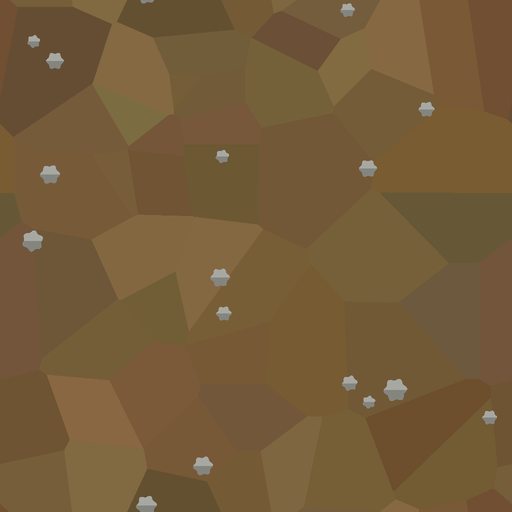
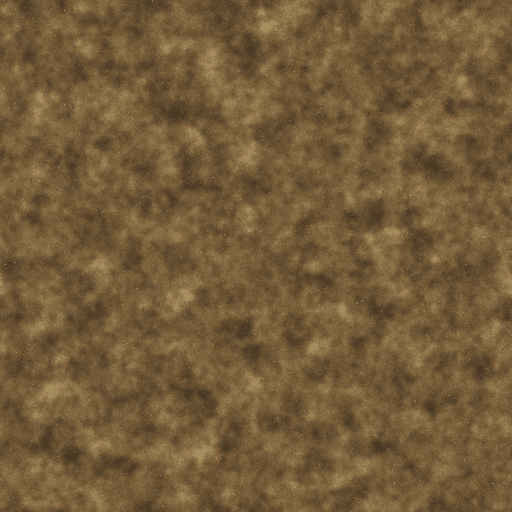
ground.dirt remade soft (Jeff, 2026-10-19: "dirt having polys is not what i meant by elevation .. i meant hills and valleys and ridges"; the coordinator's pick (a), beside terrain's 524): art-gen's p1 flat Voronoi cells read as polys at the game camera; now mottled packed earth with no hard edges, b

diff --git a/THIRD_PARTY.md b/THIRD_PARTY.md
@@ -16,7 +16,7 @@ also writes `docs/art_status.md`; `art_kit_test` fails while either is out of da
 |--------|---------|-------|---------------------|
 | [Castle Kit 2.0, Kenney](https://kenney.nl/assets/castle-kit) | CC0 1.0 (`art/kenney-castle/License.txt`) | `art/kenney-castle/Models/GLB format/` | none now |
 
-Slots whose own art came from someone else: material.wall.castle (art-gen, own), floor.castle (art-gen, own), wall.castle.straight (art-gen, fitted by art-kit, own), wall.castle.straight_low (art-gen, fitted by art-kit, own), wall.castle.straight_tall (art-gen, fitted by art-kit, own), wall.castle.end (art-gen, fitted by art-kit, own), wall.castle.end_low (art-gen, fitted by art-kit, own), wall.castle.end_tall (art-gen, fitted by art-kit, own), wall.castle.corner (art-gen, fitted by art-kit, own), wall.castle.corner_low (art-gen, fitted by art-kit, own), wall.castle.corner_tall (art-gen, fitted by art-kit, own), wall.castle.t (art-gen, fitted by art-kit, own), wall.castle.t_low (art-gen, fitted by art-kit, own), wall.castle.t_tall (art-gen, fitted by art-kit, own), wall.castle.cross (art-gen, fitted by art-kit, own), wall.castle.cross_low (art-gen, fitted by art-kit, own), wall.castle.cross_tall (art-gen, fitted by art-kit, own), wall.castle.post (art-gen, fitted by art-kit, own), wall.castle.post_low (art-gen, fitted by art-kit, own), wall.castle.post_tall (art-gen, fitted by art-kit, own), wall.castle.window (art-gen, fitted by art-kit, own), wall.castle.straight_ruined (art-gen, fitted by art-kit, own), wall.castle.end_ruined (art-gen, fitted by art-kit, own), wall.castle.rubble (art-gen, fitted by art-kit, own), material.wall.wood (art-gen, own), material.roof.shingle (art-gen, procedural (no model), own), material.roof.thatch (art-kit, procedural, own), roof.thatch.ridge (art-kit, by hand, own), roof.thatch.eave (art-kit, by hand, own), roof.shingle.ridge (art-gen, fitted by art-kit, own), roof.shingle.end (art-gen, fitted by art-kit, own), roof.shingle.broken (art-kit, own), chimney.stone (art-kit, by hand, own), porch.timber (art-kit, by hand, own), porch.timber_wide (art-kit, by hand, own), frame.cruck (art-kit, by hand, own), floor.wood (art-gen, own), wall.wood.straight (art-gen, fitted by art-kit, own), wall.wood.end (art-gen, fitted by art-kit, own), wall.wood.corner (art-gen, fitted by art-kit, own), wall.wood.t (art-gen, fitted by art-kit, own), wall.wood.cross (art-gen, fitted by art-kit, own), wall.wood.post (art-gen, fitted by art-kit, own), wall.wood.window (art-gen, fitted by art-kit, own), wall.wood.straight_ruined (art-gen, fitted by art-kit, own), wall.wood.rubble (art-gen, fitted by art-kit, own), material.wall.stone (art-gen, own), floor.stone (art-gen, own), wall.stone.straight (art-gen, fitted by art-kit, own), wall.stone.end (art-gen, fitted by art-kit, own), wall.stone.corner (art-gen, fitted by art-kit, own), wall.stone.t (art-gen, fitted by art-kit, own), wall.stone.cross (art-gen, fitted by art-kit, own), wall.stone.post (art-gen, fitted by art-kit, own), wall.stone.straight_tall (art-gen, fitted by art-kit, own), wall.stone.end_tall (art-gen, fitted by art-kit, own), wall.stone.corner_tall (art-gen, fitted by art-kit, own), wall.stone.t_tall (art-gen, fitted by art-kit, own), wall.stone.cross_tall (art-gen, fitted by art-kit, own), wall.stone.post_tall (art-gen, fitted by art-kit, own), wall.stone.straight_low (art-gen, fitted by art-kit, own), wall.stone.end_low (art-gen, fitted by art-kit, own), wall.stone.post_low (art-gen, fitted by art-kit, own), wall.stone.window (art-gen, fitted by art-kit, own), wall.stone.straight_ruined (art-gen, fitted by art-kit, own), wall.stone.end_ruined (art-gen, fitted by art-kit, own), wall.stone.rubble (art-gen, fitted by art-kit, own), material.wall.cave (art-gen, own), floor.cave (art-gen, own), wall.cave.end (art-gen, fitted by art-kit, own), wall.cave.pillar (art-gen, fitted by art-kit, own), wall.cave.rubble (art-gen, fitted by art-kit, own), wall.castle.tower (art-gen, fitted by art-kit, own), wall.stone.tower (art-gen, fitted by art-kit, own), wall.wood.tower (art-gen, fitted by art-kit, own), door.single (art-kit, own), tree.broadleaf (art-gen, fitted by art-kit, own), tree.small (art-gen, fitted by art-kit (variant 1); art-kit by hand (2, 3), own), tree.pine (art-gen, fitted by art-kit, own), tree.pine_stand (art-kit, from tree.pine's art-gen variants, own), rock.small (art-gen, fitted by art-kit, own), scatter.tuft (art-gen, fitted by art-kit, own), scatter.flower (art-kit, by hand to art-gen's c4, own), scatter.stone (art-gen, fitted by art-kit, own), scatter.root (art-gen, fitted by art-kit, own), prop.crate (art-kit, by hand, own), prop.chest (art-kit, by hand, own), rock.boulder (art-gen, fitted by art-kit, own), prop.cart (art-gen, fitted by art-kit, own), building.hut (art-kit, by hand, own), building.house (art-gen, fitted by art-kit, own), building.shed (art-gen, fitted by art-kit, own), building.well (art-gen, fitted by art-kit, own), door.double (art-gen, fitted by art-kit, own), door.gate (art-gen, fitted by art-kit, own), door.portcullis (art-gen, fitted by art-kit, own), door.trapdoor (art-gen, fitted by art-kit, own), tree.dead (art-gen, fitted by art-kit, own), tree.stump (art-gen, cleaned up by art-kit, own), tree.log (art-gen, fitted by art-kit, own), plant.bush (art-gen, fitted by art-kit, own), plant.fern (art-gen, fitted by art-kit, own), scatter.reeds (art-kit, by hand to art-gen's c1, own), rock.large (art-gen, fitted by art-kit, own), prop.barrel (art-kit, by hand, own), prop.torch (art-gen, fitted by art-kit, own), prop.torch_post (art-kit, by hand, own), prop.lantern (art-gen, fitted by art-kit, own), prop.campfire (art-gen, fitted by art-kit, own), prop.fence (art-gen, fitted by art-kit, own), prop.fence_post (art-gen, fitted by art-kit, own), prop.stairs (art-gen, fitted by art-kit, own), prop.table (art-kit, by hand, own), prop.bench (art-gen, fitted by art-kit, own), prop.bed (art-gen, fitted by art-kit, own), prop.sack (art-gen, fitted by art-kit, own), prop.grave (art-gen, fitted by art-kit, own), prop.anvil (art-gen, fitted by art-kit, own), prop.forge (art-gen, fitted by art-kit, own), prop.bookshelf (art-gen, fitted by art-kit, own), prop.market_stall (art-gen, fitted by art-kit, own), prop.signpost (art-gen, fitted by art-kit, own), prop.banner (art-gen, fitted by art-kit, own), prop.tent (art-gen, fitted by art-kit, own), prop.palisade (art-gen, fitted by art-kit, own), prop.cage (art-gen, fitted by art-kit, own), prop.bridge (art-gen, fitted by art-kit, own), bridge.wood.deck (art-kit, by hand, own), bridge.wood.rail (art-kit, by hand, own), bridge.wood.end (art-kit, by hand, own), prop.ladder (art-gen, fitted by art-kit, own), creature.deer (Quaternius (mesh, rig and clips), pc-character (fitted to the slot, recoloured onto the palette), CC0 1.0 (Quaternius, Ultimate Animated Animal Pack: Deer, docs/licenses/quaternius-cc0_2026-10-15.txt)), creature.stag (Quaternius (mesh, rig and clips), pc-character (fitted to the slot, recoloured onto the palette), CC0 1.0 (Quaternius, Ultimate Animated Animal Pack: Stag, docs/licenses/quaternius-cc0_2026-10-15.txt)), creature.wolf (Quaternius (mesh, rig and clips), pc-character (fitted to the slot, recoloured onto the palette), CC0 1.0 (Quaternius, Ultimate Animated Animal Pack: Wolf, docs/licenses/quaternius-cc0_2026-10-15.txt)), creature.boar (art-gen (mesh), pc-character (rig fit); rig and clips Quaternius, own (mesh); CC0 1.0 (the Quaternius Pig's rig and clips, docs/licenses/quaternius-cc0_2026-10-15.txt)), creature.cow (Quaternius (mesh, rig and clips), pc-character (fitted to the slot, recoloured onto the palette), CC0 1.0 (Quaternius, Ultimate Animated Animal Pack: Cow; variant 2 Bull, docs/licenses/quaternius-cc0_2026-10-15.txt)), creature.pig (art-gen (the boar's mesh), pc-character (rig fit; made a farm pig by tools/pig_from_boar.py), own (mesh); CC0 1.0 (the Quaternius Pig's rig and clips, docs/licenses/quaternius-cc0_2026-10-15.txt)), creature.horse (Quaternius (mesh, rig and clips), pc-character (fitted to the slot, recoloured onto the palette), CC0 1.0 (Quaternius, Ultimate Animated Animal Pack: Horse; variant 2 Horse_White, docs/licenses/quaternius-cc0_2026-10-15.txt)), creature.donkey (Quaternius (mesh, rig and clips), pc-character (fitted to the slot, recoloured onto the palette), CC0 1.0 (Quaternius, Ultimate Animated Animal Pack: Donkey, docs/licenses/quaternius-cc0_2026-10-15.txt)), creature.dog (Quaternius (mesh, rig and clips), pc-character (fitted to the slot, recoloured onto the palette), CC0 1.0 (Quaternius, Ultimate Animated Animal Pack: Husky; variant 2 ShibaInu, docs/licenses/quaternius-cc0_2026-10-15.txt)), creature.rabbit (art-gen (mesh), pc-character (rig and clips), own), creature.orc (pc-character (tools/body_gen.py, body_build.py --parts), own), creature.kobold (pc-character (tools/body_gen.py, body_build.py --parts), own), ground.dirt (art-gen, procedural, own), ground.sand (art-gen, procedural, own), fx.arrow (art-kit, own), ground.needles (art-gen, procedural (no model), own), material.rock (art-gen, own), item.antlers (art-gen, fitted by art-kit, own), item.arrows (art-gen, procedural (no model); fitted by art-kit, own), item.arrows_barbed (art-gen, procedural (no model); fitted by art-kit, own), item.arrows_flame (art-gen, procedural (no model); fitted by art-kit, own), item.axe_head (art-gen, fitted by art-kit, own), item.bandaging_kit (art-gen, fitted by art-kit, own), item.bow (art-kit, by hand from art-gen's c2, own), item.cloth_bolt (art-gen, fitted by art-kit, own), item.coin_purse (art-gen, fitted by art-kit, own), item.dagger (art-gen, fitted by art-kit, own), item.food_sack (art-gen, fitted by art-kit, own), item.giant_axe (art-gen, fitted by art-kit, own), item.hammer (art-gen, fitted by art-kit, own), item.herbs (art-kit, by hand, own), item.hide (art-gen, fitted by art-kit, own), item.knife (art-gen, fitted by art-kit, own), item.meat (art-gen, fitted by art-kit, own), item.nails (art-gen, fitted by art-kit, own), item.ore_sack (art-gen, fitted by art-kit, own), item.ration (art-gen, fitted by art-kit, own), item.remedy (art-kit, by hand, own), item.shield (art-gen, fitted by art-kit, own), item.silver_ring (art-kit, by hand, own), item.spear (art-gen, fitted by art-kit, own), item.spice (art-kit, by hand, own), item.sword (art-gen, fitted by art-kit, own), item.tusks (art-gen, fitted by art-kit, own), item.wine (art-kit, by hand, own), item.wood_bundle (art-gen, fitted by art-kit, own).
+Slots whose own art came from someone else: material.wall.castle (art-gen, own), floor.castle (art-gen, own), wall.castle.straight (art-gen, fitted by art-kit, own), wall.castle.straight_low (art-gen, fitted by art-kit, own), wall.castle.straight_tall (art-gen, fitted by art-kit, own), wall.castle.end (art-gen, fitted by art-kit, own), wall.castle.end_low (art-gen, fitted by art-kit, own), wall.castle.end_tall (art-gen, fitted by art-kit, own), wall.castle.corner (art-gen, fitted by art-kit, own), wall.castle.corner_low (art-gen, fitted by art-kit, own), wall.castle.corner_tall (art-gen, fitted by art-kit, own), wall.castle.t (art-gen, fitted by art-kit, own), wall.castle.t_low (art-gen, fitted by art-kit, own), wall.castle.t_tall (art-gen, fitted by art-kit, own), wall.castle.cross (art-gen, fitted by art-kit, own), wall.castle.cross_low (art-gen, fitted by art-kit, own), wall.castle.cross_tall (art-gen, fitted by art-kit, own), wall.castle.post (art-gen, fitted by art-kit, own), wall.castle.post_low (art-gen, fitted by art-kit, own), wall.castle.post_tall (art-gen, fitted by art-kit, own), wall.castle.window (art-gen, fitted by art-kit, own), wall.castle.straight_ruined (art-gen, fitted by art-kit, own), wall.castle.end_ruined (art-gen, fitted by art-kit, own), wall.castle.rubble (art-gen, fitted by art-kit, own), material.wall.wood (art-gen, own), material.roof.shingle (art-gen, procedural (no model), own), material.roof.thatch (art-kit, procedural, own), roof.thatch.ridge (art-kit, by hand, own), roof.thatch.eave (art-kit, by hand, own), roof.shingle.ridge (art-gen, fitted by art-kit, own), roof.shingle.end (art-gen, fitted by art-kit, own), roof.shingle.broken (art-kit, own), chimney.stone (art-kit, by hand, own), porch.timber (art-kit, by hand, own), porch.timber_wide (art-kit, by hand, own), frame.cruck (art-kit, by hand, own), floor.wood (art-gen, own), wall.wood.straight (art-gen, fitted by art-kit, own), wall.wood.end (art-gen, fitted by art-kit, own), wall.wood.corner (art-gen, fitted by art-kit, own), wall.wood.t (art-gen, fitted by art-kit, own), wall.wood.cross (art-gen, fitted by art-kit, own), wall.wood.post (art-gen, fitted by art-kit, own), wall.wood.window (art-gen, fitted by art-kit, own), wall.wood.straight_ruined (art-gen, fitted by art-kit, own), wall.wood.rubble (art-gen, fitted by art-kit, own), material.wall.stone (art-gen, own), floor.stone (art-gen, own), wall.stone.straight (art-gen, fitted by art-kit, own), wall.stone.end (art-gen, fitted by art-kit, own), wall.stone.corner (art-gen, fitted by art-kit, own), wall.stone.t (art-gen, fitted by art-kit, own), wall.stone.cross (art-gen, fitted by art-kit, own), wall.stone.post (art-gen, fitted by art-kit, own), wall.stone.straight_tall (art-gen, fitted by art-kit, own), wall.stone.end_tall (art-gen, fitted by art-kit, own), wall.stone.corner_tall (art-gen, fitted by art-kit, own), wall.stone.t_tall (art-gen, fitted by art-kit, own), wall.stone.cross_tall (art-gen, fitted by art-kit, own), wall.stone.post_tall (art-gen, fitted by art-kit, own), wall.stone.straight_low (art-gen, fitted by art-kit, own), wall.stone.end_low (art-gen, fitted by art-kit, own), wall.stone.post_low (art-gen, fitted by art-kit, own), wall.stone.window (art-gen, fitted by art-kit, own), wall.stone.straight_ruined (art-gen, fitted by art-kit, own), wall.stone.end_ruined (art-gen, fitted by art-kit, own), wall.stone.rubble (art-gen, fitted by art-kit, own), material.wall.cave (art-gen, own), floor.cave (art-gen, own), wall.cave.end (art-gen, fitted by art-kit, own), wall.cave.pillar (art-gen, fitted by art-kit, own), wall.cave.rubble (art-gen, fitted by art-kit, own), wall.castle.tower (art-gen, fitted by art-kit, own), wall.stone.tower (art-gen, fitted by art-kit, own), wall.wood.tower (art-gen, fitted by art-kit, own), door.single (art-kit, own), tree.broadleaf (art-gen, fitted by art-kit, own), tree.small (art-gen, fitted by art-kit (variant 1); art-kit by hand (2, 3), own), tree.pine (art-gen, fitted by art-kit, own), tree.pine_stand (art-kit, from tree.pine's art-gen variants, own), rock.small (art-gen, fitted by art-kit, own), scatter.tuft (art-gen, fitted by art-kit, own), scatter.flower (art-kit, by hand to art-gen's c4, own), scatter.stone (art-gen, fitted by art-kit, own), scatter.root (art-gen, fitted by art-kit, own), prop.crate (art-kit, by hand, own), prop.chest (art-kit, by hand, own), rock.boulder (art-gen, fitted by art-kit, own), prop.cart (art-gen, fitted by art-kit, own), building.hut (art-kit, by hand, own), building.house (art-gen, fitted by art-kit, own), building.shed (art-gen, fitted by art-kit, own), building.well (art-gen, fitted by art-kit, own), door.double (art-gen, fitted by art-kit, own), door.gate (art-gen, fitted by art-kit, own), door.portcullis (art-gen, fitted by art-kit, own), door.trapdoor (art-gen, fitted by art-kit, own), tree.dead (art-gen, fitted by art-kit, own), tree.stump (art-gen, cleaned up by art-kit, own), tree.log (art-gen, fitted by art-kit, own), plant.bush (art-gen, fitted by art-kit, own), plant.fern (art-gen, fitted by art-kit, own), scatter.reeds (art-kit, by hand to art-gen's c1, own), rock.large (art-gen, fitted by art-kit, own), prop.barrel (art-kit, by hand, own), prop.torch (art-gen, fitted by art-kit, own), prop.torch_post (art-kit, by hand, own), prop.lantern (art-gen, fitted by art-kit, own), prop.campfire (art-gen, fitted by art-kit, own), prop.fence (art-gen, fitted by art-kit, own), prop.fence_post (art-gen, fitted by art-kit, own), prop.stairs (art-gen, fitted by art-kit, own), prop.table (art-kit, by hand, own), prop.bench (art-gen, fitted by art-kit, own), prop.bed (art-gen, fitted by art-kit, own), prop.sack (art-gen, fitted by art-kit, own), prop.grave (art-gen, fitted by art-kit, own), prop.anvil (art-gen, fitted by art-kit, own), prop.forge (art-gen, fitted by art-kit, own), prop.bookshelf (art-gen, fitted by art-kit, own), prop.market_stall (art-gen, fitted by art-kit, own), prop.signpost (art-gen, fitted by art-kit, own), prop.banner (art-gen, fitted by art-kit, own), prop.tent (art-gen, fitted by art-kit, own), prop.palisade (art-gen, fitted by art-kit, own), prop.cage (art-gen, fitted by art-kit, own), prop.bridge (art-gen, fitted by art-kit, own), bridge.wood.deck (art-kit, by hand, own), bridge.wood.rail (art-kit, by hand, own), bridge.wood.end (art-kit, by hand, own), prop.ladder (art-gen, fitted by art-kit, own), creature.deer (Quaternius (mesh, rig and clips), pc-character (fitted to the slot, recoloured onto the palette), CC0 1.0 (Quaternius, Ultimate Animated Animal Pack: Deer, docs/licenses/quaternius-cc0_2026-10-15.txt)), creature.stag (Quaternius (mesh, rig and clips), pc-character (fitted to the slot, recoloured onto the palette), CC0 1.0 (Quaternius, Ultimate Animated Animal Pack: Stag, docs/licenses/quaternius-cc0_2026-10-15.txt)), creature.wolf (Quaternius (mesh, rig and clips), pc-character (fitted to the slot, recoloured onto the palette), CC0 1.0 (Quaternius, Ultimate Animated Animal Pack: Wolf, docs/licenses/quaternius-cc0_2026-10-15.txt)), creature.boar (art-gen (mesh), pc-character (rig fit); rig and clips Quaternius, own (mesh); CC0 1.0 (the Quaternius Pig's rig and clips, docs/licenses/quaternius-cc0_2026-10-15.txt)), creature.cow (Quaternius (mesh, rig and clips), pc-character (fitted to the slot, recoloured onto the palette), CC0 1.0 (Quaternius, Ultimate Animated Animal Pack: Cow; variant 2 Bull, docs/licenses/quaternius-cc0_2026-10-15.txt)), creature.pig (art-gen (the boar's mesh), pc-character (rig fit; made a farm pig by tools/pig_from_boar.py), own (mesh); CC0 1.0 (the Quaternius Pig's rig and clips, docs/licenses/quaternius-cc0_2026-10-15.txt)), creature.horse (Quaternius (mesh, rig and clips), pc-character (fitted to the slot, recoloured onto the palette), CC0 1.0 (Quaternius, Ultimate Animated Animal Pack: Horse; variant 2 Horse_White, docs/licenses/quaternius-cc0_2026-10-15.txt)), creature.donkey (Quaternius (mesh, rig and clips), pc-character (fitted to the slot, recoloured onto the palette), CC0 1.0 (Quaternius, Ultimate Animated Animal Pack: Donkey, docs/licenses/quaternius-cc0_2026-10-15.txt)), creature.dog (Quaternius (mesh, rig and clips), pc-character (fitted to the slot, recoloured onto the palette), CC0 1.0 (Quaternius, Ultimate Animated Animal Pack: Husky; variant 2 ShibaInu, docs/licenses/quaternius-cc0_2026-10-15.txt)), creature.rabbit (art-gen (mesh), pc-character (rig and clips), own), creature.orc (pc-character (tools/body_gen.py, body_build.py --parts), own), creature.kobold (pc-character (tools/body_gen.py, body_build.py --parts), own), ground.dirt (art-kit, procedural, own), ground.sand (art-gen, procedural, own), fx.arrow (art-kit, own), ground.needles (art-gen, procedural (no model), own), material.rock (art-gen, own), item.antlers (art-gen, fitted by art-kit, own), item.arrows (art-gen, procedural (no model); fitted by art-kit, own), item.arrows_barbed (art-gen, procedural (no model); fitted by art-kit, own), item.arrows_flame (art-gen, procedural (no model); fitted by art-kit, own), item.axe_head (art-gen, fitted by art-kit, own), item.bandaging_kit (art-gen, fitted by art-kit, own), item.bow (art-kit, by hand from art-gen's c2, own), item.cloth_bolt (art-gen, fitted by art-kit, own), item.coin_purse (art-gen, fitted by art-kit, own), item.dagger (art-gen, fitted by art-kit, own), item.food_sack (art-gen, fitted by art-kit, own), item.giant_axe (art-gen, fitted by art-kit, own), item.hammer (art-gen, fitted by art-kit, own), item.herbs (art-kit, by hand, own), item.hide (art-gen, fitted by art-kit, own), item.knife (art-gen, fitted by art-kit, own), item.meat (art-gen, fitted by art-kit, own), item.nails (art-gen, fitted by art-kit, own), item.ore_sack (art-gen, fitted by art-kit, own), item.ration (art-gen, fitted by art-kit, own), item.remedy (art-kit, by hand, own), item.shield (art-gen, fitted by art-kit, own), item.silver_ring (art-kit, by hand, own), item.spear (art-gen, fitted by art-kit, own), item.spice (art-kit, by hand, own), item.sword (art-gen, fitted by art-kit, own), item.tusks (art-gen, fitted by art-kit, own), item.wine (art-kit, by hand, own), item.wood_bundle (art-gen, fitted by art-kit, own).
 
 <!-- end of art slots -->
 

diff --git a/docs/art_picks.md b/docs/art_picks.md
@@ -9,6 +9,7 @@ through the coordinator as a redo.
 
 | Date | Slot | Pick | Note |
 |---|---|---|---|
+| 2026-10-19 | ground.dirt | vetoed, remade | Jeff: "dirt having polys is not what i meant by elevation .. i meant hills and valleys and ridges": the flat Voronoi cells of art-gen's p1 read as polys at the game camera; remade soft and mottled, no hard edges, at the old mean colour (the coordinator's pick, beside terrain's 524 patch outlines); old against new: C:\dev\review\tone\dirt\dirt-old-vs-soft.png; pebbles can come back as a variant if it reads too plain |
 | 2026-10-19 | prop.chest, crate, barrel | by hand, applied | Jeff: "the graphics not crisp or detailed at all": the fitted c10, c18 and c4 read as brown mush at game zoom (small triangles, each its own swatch); the coordinator asked for them rebuilt by hand in big clean planes, same slots and sizes, under the standing rule (before and after: C:\dev\review\tone\props-before-after.png); the other props that read as mush follow one at a time (prop.table 2026-10-19, C:\dev\review\tone\table-before-after.png; then bed, bookshelf, signpost, forge). Held for Jeff: a lighter, warmer wood and stone in the palette, C:\dev\review\tone\palette-lift.png (if he takes warm walls, a separate warm stone row so rocks stay grey) |
 | 2026-10-18 | creature.sheep | ewe c2, ram c10, applied | art-kit's and art-gen's recommendation, applied by the coordinator under Jeff's standing rule ("go ahead and apply the candidates and ill veto in game"); c2 the cleanest ewe (tiny horn nubs), c10 the tightest ram horns; the slot widened 0.5 -> 0.55 for the ram's horns rather than squeezing them; art-gen meshes the side figures by docs/art_mesh_recipe.md, art-kit hand-fixes, pc-character rigs |
 | 2026-10-18 | creature.orc, creature.kobold | density | Jeff: "kobold and orc poly counts are way too low": budgets to 12k, generator bodies rebuilt at ~10k with a real face, fingers, tusks and claws as mesh; the TRELLIS route trial at the same count. Then Jeff: "goblin looks best still and it is lowish too": the goblin is the floor for density and read; it goes on the route sheets as a column. The goblin is 3,905 tris, a TRELLIS mesh with a painted texture; Jeff: "poly count isnt the issue then its the step from image to 3d mesh thats gone terribly wrong": art-gen reconstructs the goblin's recipe and meshes orc p2 and kobold p1 by it, texture included, written down as the one way. Found: the TRELLIS step was the same for the goblin and the rejected humans; the differences were a simple one-figure T-pose concept on white (Lightning, 8 steps), a watertight cleanup (loose parts dropped, joins cut, holes filled) and flat part colours with hand paint, no TRELLIS texture; the recipe is scripted (goblin_clean.py, paint_bake.py) and the first paint baked from the concept views; the goblin's one-figure-on-white concept step did not carry over (painterly, triangle soups), so the recipe's concept step is the v7 style, cfg 4, faceted prompt, cropped to one figure; orc p2 meshed that way reads like the concept (orc_p2_trellis.png) |

diff --git a/CHANGELOG.md b/CHANGELOG.md
@@ -7,6 +7,7 @@ notes (decision 324).
 
 ## Unreleased
 
+- Dirt is soft, mottled earth instead of a patchwork of flat polygons.
 - Tables are rebuilt in clean planks: a planked top on cleats, square legs and stretchers.
 - The ground can now have real hills and valleys: an outdoor level's new relief.png gives each cell's height in centimetres. A gentle slope is walked (slower uphill, and wandering groups take the valleys), a steep one is a cliff to fall from, a ridge hides what lies behind it, buildings need level ground and water lies level under its banks. Levels without one play as before; the sample level has a gentle rise (525). Server and client: protocol 22.
 - Fire looks like fire (523): torches and burning ground have flickering flames with rising embers and a faint wisp of smoke, and their light flickers and warms the ground around them. By day outdoors a torch's light fades to a glint.

diff --git a/docs/art_status.md b/docs/art_status.md
@@ -69,7 +69,7 @@ Drawn as a grey box (a texture slot: terrain's procedural colour).
 | `floor.wood` | 1 | art-gen | own | 2026-10-18 |
 | `frame.cruck` | 1 | art-kit, by hand | own | 2026-10-18 |
 | `fx.arrow` | 3 | art-kit | own | 2026-10-17 |
-| `ground.dirt` | 1 | art-gen, procedural | own | 2026-10-18 |
+| `ground.dirt` | 1 | art-kit, procedural | own | 2026-10-19 |
 | `ground.needles` | 4 | art-gen, procedural (no model) | own | 2026-10-17 |
 | `ground.sand` | 1 | art-gen, procedural | own | 2026-10-18 |
 | `item.antlers` | 1 | art-gen, fitted by art-kit | own | 2026-10-18 |
